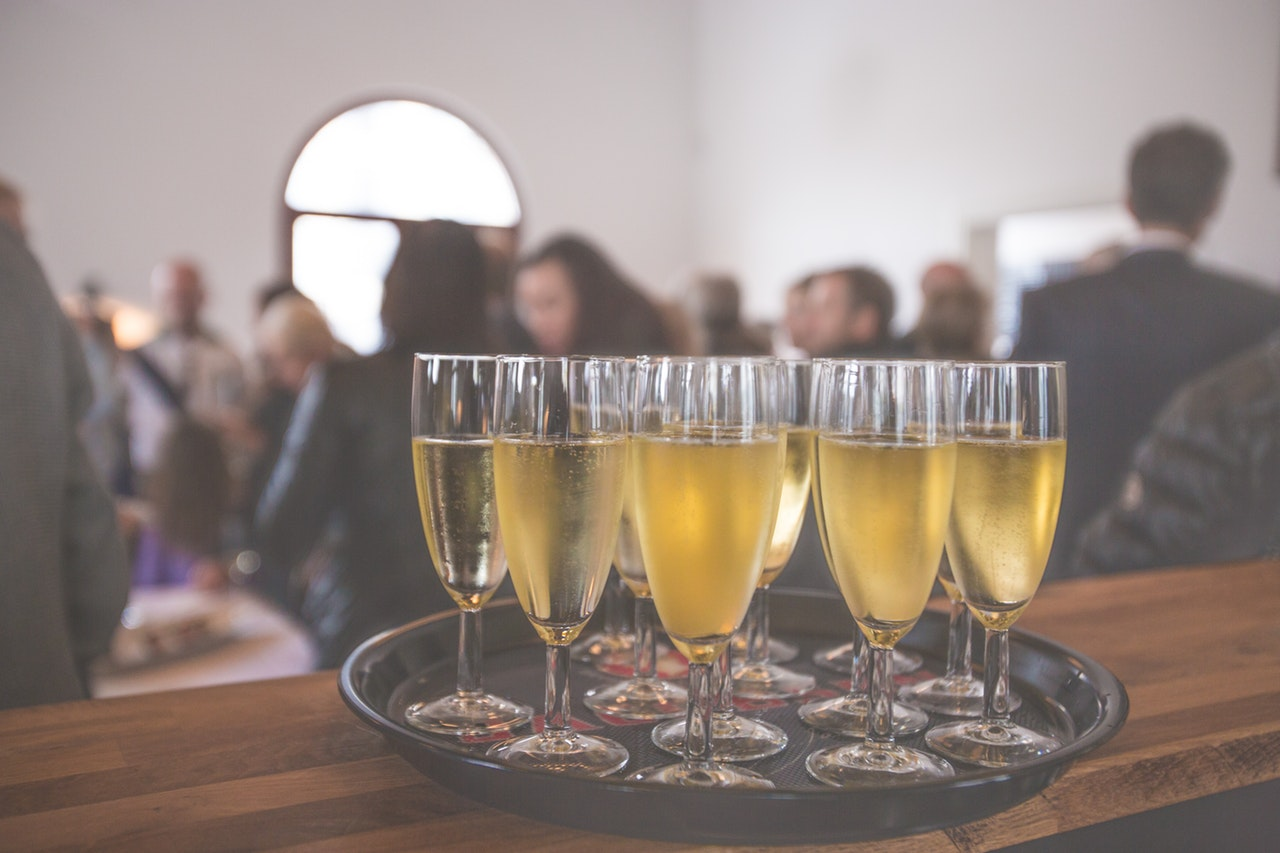
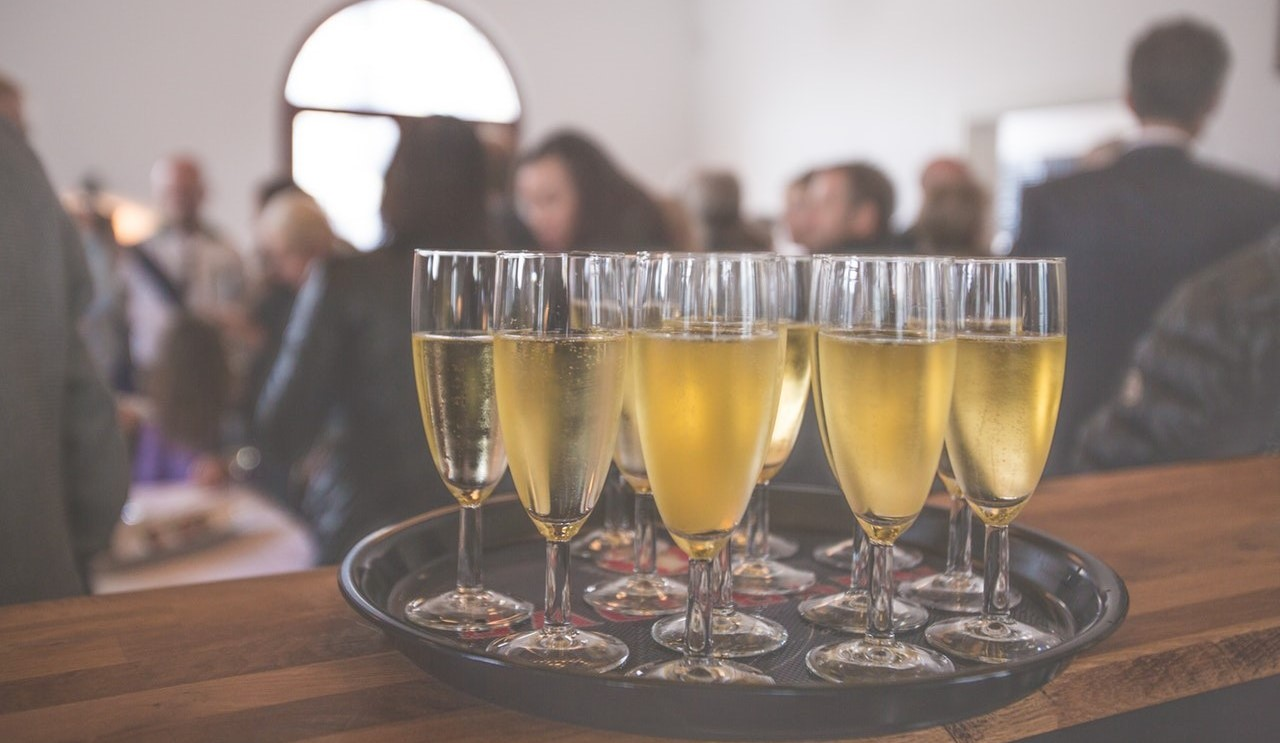
changed size of images to match each other and new party image for about page

diff --git a/gallery.html b/gallery.html
@@ -72,25 +72,24 @@
 					</div>
 					<div class="col-lg-6">
 						<div class="card">
-							<a href="/gallery-party.html">
-								<img class="card-img-top" src="/IMG/pexels-party-1.jpg" alt="party">
-							</a>
-							<div class="card-body">
-								<h5>Party Gallery</h5>									
-							</div>
-						</div>						
-					</div>
-				</div>
-				<br>
-
-				<div class="row">
-					<div class="col-lg-6">
-						<div class="card">
 							<a href="/gallery-event.html">
 								<img class="card-img-top" src="/IMG/pexels-event-2.jpg" alt="event">
 							</a>
 							<div class="card-body">
 								<h5>Event Gallery</h5>
+							</div>
+						</div>						
+					</div>
+				</div>
+				<br>
+				<div class="row">
+					<div class="col-lg-6">
+						<div class="card">
+							<a href="/gallery-party.html">
+								<img class="card-img-top" src="/IMG/pexels-party-1.jpg" alt="party">
+							</a>
+							<div class="card-body">
+								<h5>Party Gallery</h5>									
 							</div>
 						</div>						
 					</div>

diff --git a/about.html b/about.html
@@ -60,7 +60,7 @@
 		<div class="container-fluid">
 			<div class="col-lg-12">
 				<div class="row">
-					<div class="col-lg-6">
+					<div class="col-lg-7">
 						<div class="card">							
 							<div class="card-body about">
 								<h4 class="card-title about-title">About Me</h4>								
@@ -70,7 +70,7 @@
 							</div>								
 						</div>					
 					</div>
-					<div class="col-lg-6">
+					<div class="col-lg-5">
 						<div class="card">							
 							<a href="/gallery-portrait.html">								
 								<img class="card-img-top" src="/IMG/pexels-portrait-1.jpeg" alt="photographer" title="Portrait Gallery">
@@ -94,7 +94,7 @@
 					<div class="col-lg-4">
 						<div class="card">
 							<a href="/gallery-party.html">
-								<img class="card-img-top" src="/IMG/pexels-party-1.jpg" alt="party" title="Party Gallery">
+								<img class="card-img-top" src="/IMG/pexels-party-2.jpg" alt="party" title="Party Gallery">
 							</a>
 							<div class="card-body">
 								<h5 class="card-title">Party</h5>
